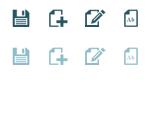
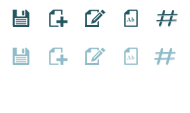
Updated web interface to have an option for posting to (save&) post to IRC

diff --git a/static/application.js b/static/application.js
@@ -89,6 +89,7 @@ haste_document.prototype.save = function(data, callback) {
 
 var haste = function(appName, options) {
   this.appName = appName;
+  this.ircChan = 'spirc';
   this.$textarea = $('textarea');
   this.$box = $('#box');
   this.$code = $('#box code');
@@ -117,7 +118,7 @@ var haste = function(appName, options) {
       window.location.assign(href);
     },
     onUploadError: function(id, message) {
-      _this.showMessage(message);
+      _this.showMessage(message, 'error');
     }
   };
   $('body').dmUploader(fileUploadOpts);
@@ -140,12 +141,12 @@ haste.prototype.showMessage = function(msg, cls) {
 
 // Show the light key
 haste.prototype.lightKey = function() {
-  this.configureKey(['new', 'save']);
+  this.configureKey(['new', 'save', 'irc']);
 };
 
 // Show the full key
 haste.prototype.fullKey = function() {
-  this.configureKey(['new', 'duplicate', 'raw']);
+  this.configureKey(['new', 'duplicate', 'raw', 'irc']);
 };
 
 // Set the key up for certain things to be enabled
@@ -312,14 +313,17 @@ haste.prototype.duplicateDocument = function() {
 };
 
 // Lock the current document
-haste.prototype.lockDocument = function() {
+haste.prototype.lockDocument = function(cb_aftersave) {
+  if (_this.$textarea.val().replace(/^\s+|\s+$/g, '') === '') {
+    return;
+  }
   var _this = this;
   this.doc.save(this.$textarea.val(), function(err, ret) {
     if (err) {
       _this.showMessage(err.message, 'error');
     }
-    else if (ret) {
-      window.location.assign('/' + ret.key);
+    else if (ret && cb_aftersave) {
+      cb_aftersave(ret); 
     }
   });
 };
@@ -335,9 +339,9 @@ haste.prototype.configureButtons = function() {
         return (evt.ctrlKey || evt.metaKey) && (evt.keyCode === 83);
       },
       action: function() {
-        if (_this.$textarea.val().replace(/^\s+|\s+$/g, '') !== '') {
-          _this.lockDocument();
-        }
+        _this.lockDocument(function(ret) {
+          window.location.assign('/' + ret.key);
+        });
       }
     },
     {
@@ -379,12 +383,32 @@ haste.prototype.configureButtons = function() {
       $where: null,
       label: 'Recent Posts',
       shortcut: function(evt) {
-        return (evt.ctrlKey || evt.metaKey) && evt.shiftKey && evt.keyCode == 73;
+        return (evt.ctrlKey || evt.metaKey) && evt.shiftKey && evt.keyCode == 77;
       },
-      shortcutDescription: 'ctrl + shift + i',
+      shortcutDescription: 'ctrl + shift + m',
       action: function() {
         _this.showRecents = !_this.showRecents;
         _this.loadRecentPostsFromServer();
+      }
+    },
+    {
+      $where: $('#box2 .irc'),
+      label: 'Post to IRC',
+      shortcut: function(evt) {
+        return (evt.ctrlKey || evt.metaKey) && evt.keyCode == 73;
+      },
+      shortcutDescription: 'ctrl + i',
+      action: function() {
+        if (_this.doc.locked) {
+          _this.postToIrc(_this.doc.key);
+        }
+        else {
+          _this.lockDocument(function(ret) {
+            _this.postToIrc(ret.key, function(res) {
+              window.location.assign('/' + ret.key);
+            });
+          });
+        }
       }
     }
   ];
@@ -470,6 +494,20 @@ haste.prototype.loadRecentPostsFromServer = function() {
         items += '<li><a href="' + href + '">' + title + '</a></li>';
       }
       $('#recent-pastes ul').html(items);
+    }
+  });
+};
+
+haste.prototype.postToIrc = function(key, cb) {
+  var _this = this;
+  $.ajax('/irc/privmsg/' + this.ircChan + '/' + key, {
+    type: 'get',
+    dataType: 'json',
+    success: function(res) {
+      _this.showMessage('Notified #' + _this.ircChan);
+      if (cb) {
+        cb(res);
+      }
     }
   });
 };

diff --git a/static/application.css b/static/application.css
@@ -42,11 +42,11 @@ textarea {
 	position:fixed;
 	left:0;
 	top:0;
-	width:150px;
+	width:170px;
 }
 
 #textcontent {
-	margin:10px 0 0 195px;
+	margin:10px 0 0 215px;
 	height:98%;
 }
 
@@ -59,7 +59,7 @@ textarea {
 	font-size: 13px;
 	font-family: monospace;
 	text-align: right;
-	margin:10px 1em 0 150px;
+	margin:10px 1em 0 170px;
 }
 
 #pastebin {
@@ -195,6 +195,10 @@ textarea {
 #box2 .function.raw { background-position: -116px top; }
 #box2 .function.enabled.raw { background-position: -116px center; }
 #box2 .function.enabled.raw:hover { background-position: -116px bottom; }
+
+#box2 .function.irc { background-position: -153px top; }
+#box2 .function.enabled.irc { background-position: -153px center; }
+#box2 .function.enabled.irc:hover { background-position: -153px bottom; }
 
 #messages {
 	position:fixed;

diff --git a/static/index.html b/static/index.html
@@ -55,6 +55,7 @@
 					<div class="new function"></div>
 					<div class="duplicate function"></div>
 					<div class="raw function"></div>
+					<div class="irc function"></div>
 				</div>
 				<div id="box3">
 					<div class="label">&nbsp;</div>
